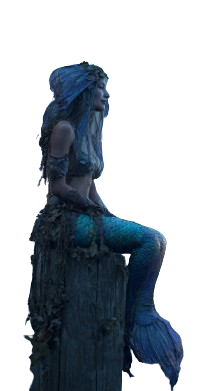
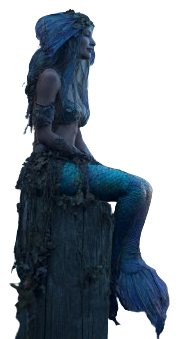
feat: adjust of section "sobre", 80%
ajustes na formatação, posicionamento e modelo da pagina sobre.

diff --git a/PaginaInicial/style.css b/PaginaInicial/style.css
@@ -187,6 +187,8 @@ body{
     align-items: center;    
     justify-content: center;
     display: flex;
+
+    box-shadow: 0 15px 10px 2px rgb(5, 6, 17);
 }
 
 .card-regiao {
@@ -224,21 +226,21 @@ body{
    
 }
 
+.right-titulo-regioes,
 .left-titulo-regioes{
     margin-top: 0px;
     height: 40px;
     width: 150px;
     margin-right: 20px;
 }
-
 .right-titulo-regioes{
     margin-top: 0px;
     margin-left: 20px;
     height: 40px;
     width: 150px;
-    
     rotate: 180deg;
 }
+
 .h1-card-regiao{
     font-family: 'Cinzel', serif;
     font-size: 25px;
@@ -498,8 +500,6 @@ body{
 }
 
 
-
-
 #sobre{
     background-color: black;
     scroll-margin-top: 80px;
@@ -507,8 +507,18 @@ body{
     padding-bottom: 80px;
     margin-bottom: 10px; 
     display: flex;
+}
 
-    box-shadow: 0 8px 10px -10px #dfe796a1;
+.alinhamento {
+    justify-content: center;
+    align-items: center; 
+    width: 100%;
+    min-height: 50vh; 
+}
+
+.d-sobre{
+    margin: 10px;
+    padding: 10px;
 }
 
 .d-titulo-sobre{
@@ -517,43 +527,95 @@ body{
 }
 
 .titulo-sobre{
-    font-size: 60px;
+    font-size: 50px;
     font-family: 'Cinzel', serif;
     letter-spacing: 2px;
     color: #c4a830;
+    text-align: center;
 }
 
-.left-titulo-sobre{
-    margin-top: 20px;
-    margin-right: 20px;
-    height: 40px;
-    width: 150px;
-    
+.left-titulo-sobre,
+.right-titulo-sobre {
+    height: 30px;
+    width: 120px;
     rotate: 90deg;
+    margin: 0 -45px; 
+    margin-left: 1px;
+    margin-right: 1px;
 }
-.right-titulo-sobre{
+
+.descricao-sobre{
     margin-top: 20px;
-    margin-left: 20px;
-    height: 40px;
-    width: 150px;
-    
-    rotate: 90deg;
+    text-align: justify;
 }
 
 .d-integrantes{
-    float: right;
+    margin: 10px;
+    padding: 10px;
 
-    clear: both;
+    justify-content: center;
+    align-items: center;
+    display: flex;
 }
 
+.card-integrante {
+    width: 250px;
+    height: 200px;
+    color: white;
+    
+    display: flex;
+    flex-direction: column;
+    justify-content: flex-end;
+    align-items: center; 
+
+    margin: 15px; 
+    flex-shrink: 0;
+}
+
+.lucas{
+    background-image:url();
+
+}
+.gustavo{
+    background-image:url();
+
+}
+.henry{
+    background-image:url();
+
+}
+
+.card-nome{
+    height: 30%;
+    width: 100%;
+    background-color: rgb(5, 6, 17);
+    border-radius: 10px;
+    border: 1px solid #c8912ac9;
+
+    display: flex;
+    flex-direction: column;
+    justify-content: flex-end;
+    align-items: center; 
+}
+
+.nome-integrante{
+    font-size: 25px;
+    font-family: 'Cinzel', serif;
+    letter-spacing: 2px;
+}
+.integrante-funcao{
+    font-size: 10px;
+    font-family: 'Cinzel', serif;
+    letter-spacing: 2px;
+}
 
 
 footer{
     background-color: black;
-    padding-top: 30px;
-    padding-bottom: 80px;
-    margin-bottom: 10px;
-    border-top: 8px solid #9ea371c9;
+    padding-top: 15px;
+    padding-bottom: 20px;
+    margin-top: 20px;
+    border-top: 3px solid #9ea371c9;
     border-top-left-radius: 15px;
     border-top-right-radius: 15px;
 }

diff --git a/PaginaInicial/index.html b/PaginaInicial/index.html
@@ -193,32 +193,58 @@
         </section>
 
         <section id="sobre">
-            <div class="container">
-                <div class="d-titulo-sobre d-flex">
-                    <img class="left-titulo-sobre" src="./Assets/img/entalhe.png" alt="">
-                    <h2 class="titulo-sobre">Sobre Nós</h2>
-                    <img class="right-titulo-sobre" src="./Assets/img/entalhe.png" alt="">
-                </div>
-                <div class="d-descricao-sobre">
-                    <p class="descricao-sobre"></p>
-                </div>
-                <div class="d-integrantes d-flex">
-                    <div class="lucas">
-                        <div class="card-nome card-lucas">
-                            <h3 class="nome-lucas">Lucas da Silva Piva</h3>
-                            <h5 class="integrante-funcao funcao-lucas">Front end/Dev JS</h5>
+            <div class="container-fluid px-4">
+                
+                <div class="row alinhamento">
+                    <div class="col-xl-5 col-lg-12 d-flex justify-content-center align-items-center">
+                        <div class="d-sobre">
+                            <div class="d-titulo-sobre d-flex justify-content-center">
+                                <img class="left-titulo-sobre" src="./Assets/img/entalhe.png" alt="">
+                                <h2 class="titulo-sobre m-0">Sobre Nós</h2>
+                                <img class="right-titulo-sobre" src="./Assets/img/entalhe.png" alt="">
+                            </div>
+                            <div class="d-descricao-sobre">
+                                <p class="descricao-sobre">
+                                    Ao contrário do que se acredita, Lorem Ipsum não é simplesmente um texto randômico.
+                                    Com mais de 2000 anos, suas raízes podem ser encontradas em uma obra de literatura latina clássica datada de 45 AC.
+                                    Richard McClintock, um professor de latim do Hampden-Sydney College na Virginia, 
+                                    pesquisou uma das mais obscuras palavras em latim, consectetur, oriunda de uma passagem de Lorem Ipsum, e, 
+                                    procurando por entre citações da palavra na literatura clássica, descobriu a sua indubitável origem. 
+                                    Lorem Ipsum vem das seções 1.10.32 e 1.10.33 do "de Finibus Bonorum et Malorum" (Os Extremos do Bem e do Mal), 
+                                    de Cícero, escrito em 45 AC. Este livro é um tratado de teoria da ética muito popular na época da Renascença.
+                                    A primeira linha de Lorem Ipsum, "Lorem Ipsum dolor sit amet..." vem de uma linha na seção 1.10.32.
+                                    O trecho padrão original de Lorem Ipsum, usado desde o século XVI, está reproduzido abaixo para os interessados. 
+                                    Seções 1.10.32 e 1.10.33 de "de Finibus Bonorum et Malorum" de Cicero também foram reproduzidas abaixo em sua forma exata original, 
+                                    acompanhada das versões para o inglês da tradução feita por H. Rackham em 1914.
+                                </p>
+                            </div>
                         </div>
                     </div>
-                    <div class="gustavo">
-                        <div class="card-nome card-gustvo">
-                            <h3 class="nome-gustavo">Gustavo Camargo Martins</h3>
-                            <h5 class="integrante-funcao funcao-gustavo">tech lead</h5>
-                        </div>
-                    </div>
-                    <div class="henry">
-                        <div class="card-nome card-henry">
-                            <h3 class="nome-henry">Henry Gabriel Gonçalves</h3>
-                            <h5 class="integrante-funcao funcao-henry">Front end/UX-Conteúdo</h5>
+
+                    <div class="col-xl-7 col-lg-12 d-flex justify-content-center align-items-center">
+                        <div class="d-integrantes d-flex flex-wrap justify-content-center">
+                            
+                            <div class="lucas card-integrante">
+                                <div class="card-nome card-lucas">
+                                    <h3 class="nome-integrante nome-lucas">Lucas S. Piva</h3>
+                                    <h5 class="integrante-funcao funcao-lucas">Front end/Dev JS</h5>
+                                </div>
+                            </div>
+                            
+                            <div class="henry card-integrante">
+                                <div class="card-nome card-henry">
+                                    <h3 class="nome-integrante nome-henry">Henry G. Gonçalves</h3>
+                                    <h5 class="integrante-funcao funcao-henry">Front end/UX-Conteúdo</h5>
+                                </div>
+                            </div>
+
+                            <div class="gustavo card-integrante">
+                                <div class="card-nome card-gustvo">
+                                    <h3 class="nome-integrante nome-gustavo">Gustavo C. Martins</h3>
+                                    <h5 class="integrante-funcao funcao-gustavo">Tech Lead</h5>
+                                </div>
+                            </div>                         
+
                         </div>
                     </div>
                 </div>

diff --git a/Biomas/PORTO/style.css b/Biomas/PORTO/style.css
@@ -100,6 +100,10 @@ a{
 
 }
 
+#sereia{
+    width: 190px;
+    height: 290px;
+}
 
 .monstro{
     width: 233px;

diff --git a/Biomas/PORTO/index.html b/Biomas/PORTO/index.html
@@ -48,6 +48,7 @@
     <div class="container-monstros">
         <img src="../PORTO/Assets/img/sereia.png" 
             class="monstro" 
+            id="sereia"
             alt=""
             data-id="sereia">
 